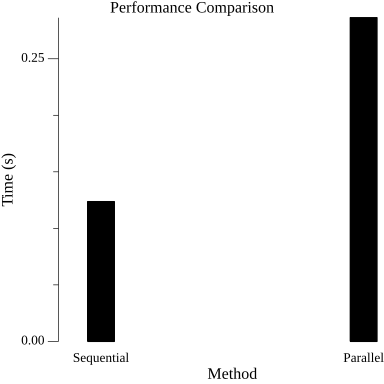
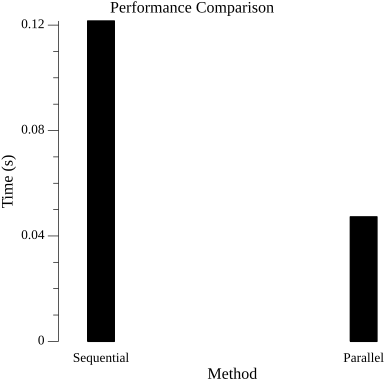
conyo it works :D

diff --git a/main.go b/main.go
@@ -61,27 +61,32 @@ func medianFilterSequential(img *image.Gray) *image.Gray {
 }
 
 // Median Filter (Parallel)
-func medianFilterParallel(img *image.Gray) *image.Gray {
+func medianFilterParallel(img *image.Gray, chunkSize int) *image.Gray {
     bounds := img.Bounds()
     output := image.NewGray(bounds)
     filterSize := 1 // You can adjust this size
     var wg sync.WaitGroup
 
-    for y := bounds.Min.Y; y < bounds.Max.Y; y++ {
-        for x := bounds.Min.X; x < bounds.Max.X; x++ {
+    for y := bounds.Min.Y; y < bounds.Max.Y; y += chunkSize {
+        for x := bounds.Min.X; x < bounds.Max.X; x += chunkSize {
             wg.Add(1)
             go func(x, y int) {
                 defer wg.Done()
-                neighborhood := getNeighborhood(img, x, y, filterSize)
-                sort.Slice(neighborhood, func(i, j int) bool { return neighborhood[i] < neighborhood[j] })
-                median := neighborhood[len(neighborhood)/2]
-                output.SetGray(x, y, color.Gray{Y: median})
+                for cy := y; cy < y+chunkSize && cy < bounds.Max.Y; cy++ {
+                    for cx := x; cx < x+chunkSize && cx < bounds.Max.X; cx++ {
+                        neighborhood := getNeighborhood(img, cx, cy, filterSize)
+                        sort.Slice(neighborhood, func(i, j int) bool { return neighborhood[i] < neighborhood[j] })
+                        median := neighborhood[len(neighborhood)/2]
+                        output.SetGray(cx, cy, color.Gray{Y: median})
+                    }
+                }
             }(x, y)
         }
     }
     wg.Wait()
     return output
 }
+
 
 // Measure the execution time
 func measureTime(function func() *image.Gray) time.Duration {
@@ -93,7 +98,7 @@ func measureTime(function func() *image.Gray) time.Duration {
 // Main function
 func main() {
     // Load the image
-    inFile, err := os.Open("dataset/kodim04.png")
+    inFile, err := os.Open("dataset/kodim21.png")
     if err != nil {
         log.Fatalf("failed to open: %v", err)
     }
@@ -113,7 +118,7 @@ func main() {
 
     // Measure parallel processing time
     parallelTime := measureTime(func() *image.Gray {
-        return medianFilterParallel(bwImage)
+        return medianFilterParallel(bwImage, 10) // Adjust the chunkSize value as needed
     })
 
     // Plotting the results
